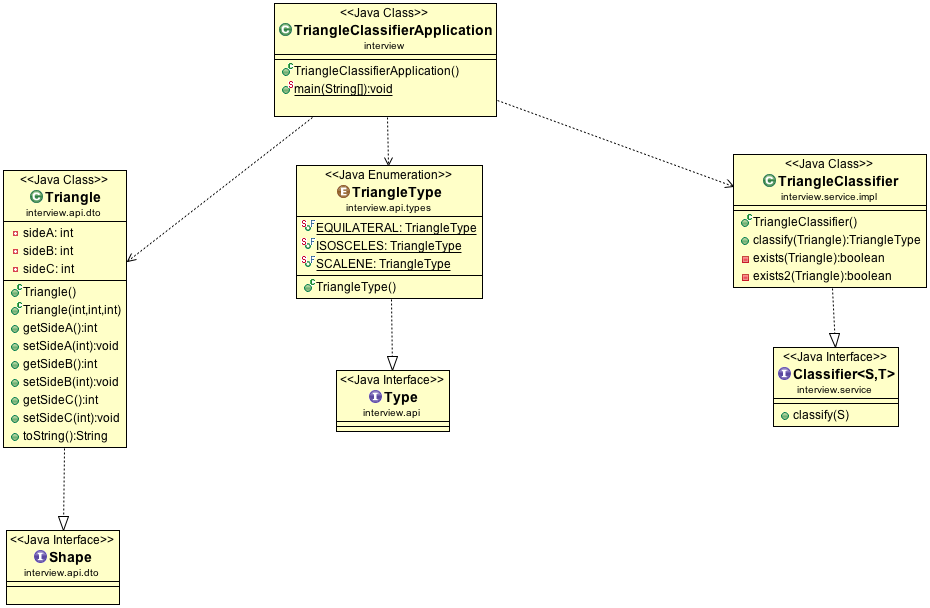
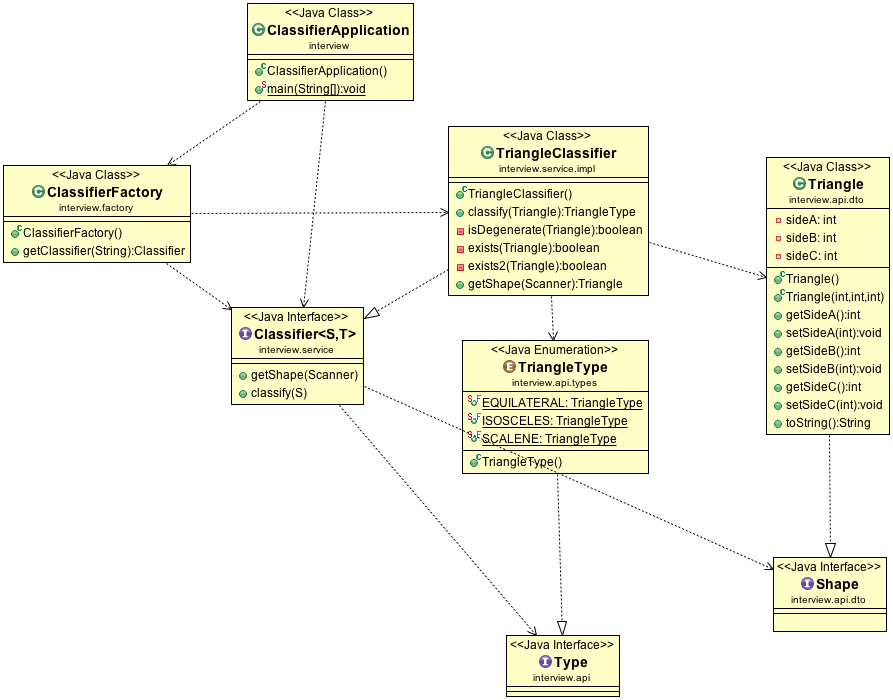
Refactoring factory pattern

diff --git a/src/main/java/interview/ClassifierApplication.java b/src/main/java/interview/ClassifierApplication.java
@@ -1,0 +1,73 @@
+package interview;
+
+import interview.api.Type;
+import interview.api.dto.Shape;
+import interview.api.dto.Triangle;
+import interview.api.types.TriangleType;
+import interview.factory.ClassifierFactory;
+import interview.service.Classifier;
+import interview.service.impl.TriangleClassifier;
+
+import java.util.Scanner;
+
+/**
+ * This is the entry point of our application. It can be tested as a standalone
+ * module or its behavior can be verified by its accompanying unit tests.
+ * 
+ * @author niko.strongioglou
+ *
+ */
+public class ClassifierApplication {
+
+	@SuppressWarnings({ "unchecked", "rawtypes" })
+	public static void main(String[] args) {
+
+		ClassifierFactory classifierFactory = new ClassifierFactory();
+
+		Scanner scanner = new Scanner(System.in);
+
+		System.out
+				.print("Welcome to the shape classifier! \n"
+						+ "What kind of shape would you want to classify (triangle etc...)?");
+
+		String shape = scanner.nextLine();
+
+		Classifier classifier = classifierFactory.getClassifier(shape);
+
+		String next = "yes";
+
+		while (next.equalsIgnoreCase("yes")) {
+
+			Shape s  = classifier.getShape(scanner);
+
+			System.out.println("Trying to classify " + s.toString());
+
+			try {
+
+				Type type = classifier.classify(s);
+
+				System.out.println("Input shape is a " + type);
+
+			} catch (IllegalArgumentException e) {
+
+				System.out.println("Unclassifiable shape. "
+						+ "Please try again with a different input."
+						+ e.getMessage());
+
+			} catch (Exception e) {
+
+				scanner.close();
+				throw new RuntimeException("An unrecoverable exception occured");
+			}
+
+			System.out.print("continue? ('yes' or 'no')  ");
+			next = scanner.nextLine();
+
+		}
+
+		System.out.println("Terminating shape classification application");
+		scanner.close();
+
+	}
+
+}

diff --git a/src/main/java/interview/service/impl/TriangleClassifier.java b/src/main/java/interview/service/impl/TriangleClassifier.java
@@ -1,5 +1,7 @@
 package interview.service.impl;
 
+import java.util.Scanner;
+
 import interview.api.dto.Triangle;
 import interview.api.types.TriangleType;
 import interview.service.Classifier;
@@ -78,5 +80,23 @@ public class TriangleClassifier implements Classifier<Triangle, TriangleType> {
 
 		int s = (t.getSideA() + t.getSideB() + t.getSideC());
 		return max < s;
+	}
+
+	@Override
+	public Triangle getShape(Scanner s) {
+		
+		System.out.print("Side A : ");
+		int sideA = s.nextInt();
+		s.nextLine();
+
+		System.out.print("Side B : ");
+		int sideB = s.nextInt();
+		s.nextLine();
+
+		System.out.print("Side C : ");
+		int sideC = s.nextInt();
+		s.nextLine();
+
+		return new Triangle(sideA, sideB, sideC);
 	}
 }

diff --git a/src/main/java/interview/factory/ClassifierFactory.java b/src/main/java/interview/factory/ClassifierFactory.java
@@ -1,0 +1,27 @@
+package interview.factory;
+
+import interview.service.Classifier;
+import interview.service.impl.TriangleClassifier;
+
+/**
+ * A factory producing a number of classifiers based on the kind of shape we
+ * want to classify. The if / else cases can be extended to any number of shapes
+ * and types.
+ * 
+ * @author niko.strongioglou
+ *
+ */
+public class ClassifierFactory {
+
+	@SuppressWarnings("rawtypes")
+	public Classifier getClassifier(String shape) {
+
+		if (shape.equalsIgnoreCase("triangle")) {
+			return new TriangleClassifier();
+		} else {
+			throw new IllegalArgumentException(
+					"No valid classifier for input string " + shape);
+		}
+	}
+
+}

diff --git a/src/main/java/interview/service/Classifier.java b/src/main/java/interview/service/Classifier.java
@@ -1,9 +1,13 @@
 package interview.service;
 
+import java.util.Scanner;
+
 import interview.api.Type;
 import interview.api.dto.Shape;
 
 public interface Classifier<S extends Shape,T extends Type> {
+	
+	S getShape(Scanner s);
 	
 	T classify(S s);
 

diff --git a/README.md b/README.md
@@ -1,59 +1,10 @@
 # Tradeshift Triangle Classifier
-#### Design Overview and Analysis
 ____________________________________________
-The included Maven project's architecture is depicted in detail on the following UML diagram.
+
+In this branch you can find an abstraction of the triangle classifier. 
+On this implementation a classifier factory is used to produce the instance of the desirable classifier 
+according to the shape which we want to classify. 
+The class diagram of the implementation is depicted below : 
 
 ![alt text](https://github.com/tonyflow/tradeshift/blob/master/classifier-class-diagram.png "Class Diagram")
 
-There was the clear need to discriminate between implementation and test cases thus I chose a Maven project to categorize the two and easily handle dependecy managegement for junit and java doc
-
-The project was developed, built and tested with Java 1.8.
-
-There are three branches on this project :
-
-1. **master** : Contains the main implementation of the triangle classifier
-
-2. **big-integer** : Contains a `TriangleClassifier` implementation which handles triangles whose sides can be `BigInteger`s
-
-3. **classifier-factory** : Contains an abstraction of the classifier. Here you can specify what kind of classifier you want to use by providing the kind of `Shape` that you want to classify and the factory pattern will choose the appropriate one from a number of implementations.
-
-
-The basic generic interface `Classifier` is the interface anybody wanting to implement a classifier of any type can use.
-
-```java
-public interface Classifier<S extends Shape,T extends Type> {
-	T classify(S s);
-}
-```
-
-
-Its type parameters represent the `Shape` one wants to classify and the `Type` which is advised to be an enumeration of the available types a shape can be classified into.
-
-For the `TriangleClassifier`, which is the required implementation of the aforementioned `Classifier`
-
-
-
-#### Implementation Details and Mathematical background
-____________________________________________
-The actual implementation of `TriangleClassifier` will first verify that there is a triangle that can be formed. This can be achieved using either the *triangle inequality formula* or *the semiperimeter formula*:
-
-1.**Triangle inequlity formula** 
->  a < b + c && b < a + c && c < a + b
-
-2.**Semiperimeter formula** : 
-> max(a,b,c)<s, where s=(a+b+c)/2
-_________________________________
-**Edge case handling**
-
-There were a number of edge cases that had to be handled. Testing the classifier's appropriate behavior for them can be found in the unit tests provided.
-The edge cases handled were the following: 
-
-1.**Negative sides / edges** : Negatively valued edges are acceptable and their absolute value is used to classify the composed triangle.
-
-2.**Degenerate Triangle** : This is a triangle whose vertices are colinear. This kind of degenerations cannot be classified.
-
-3.**Triangle does not exist** : 
-
-4.**Zero edges** : The classifier is given an illegal argument. There does not exist a zero edged triangle. This case can be deduced to case \#3.
-
-There is also a performance tests suite included in the package where you can see the application stretched out.
